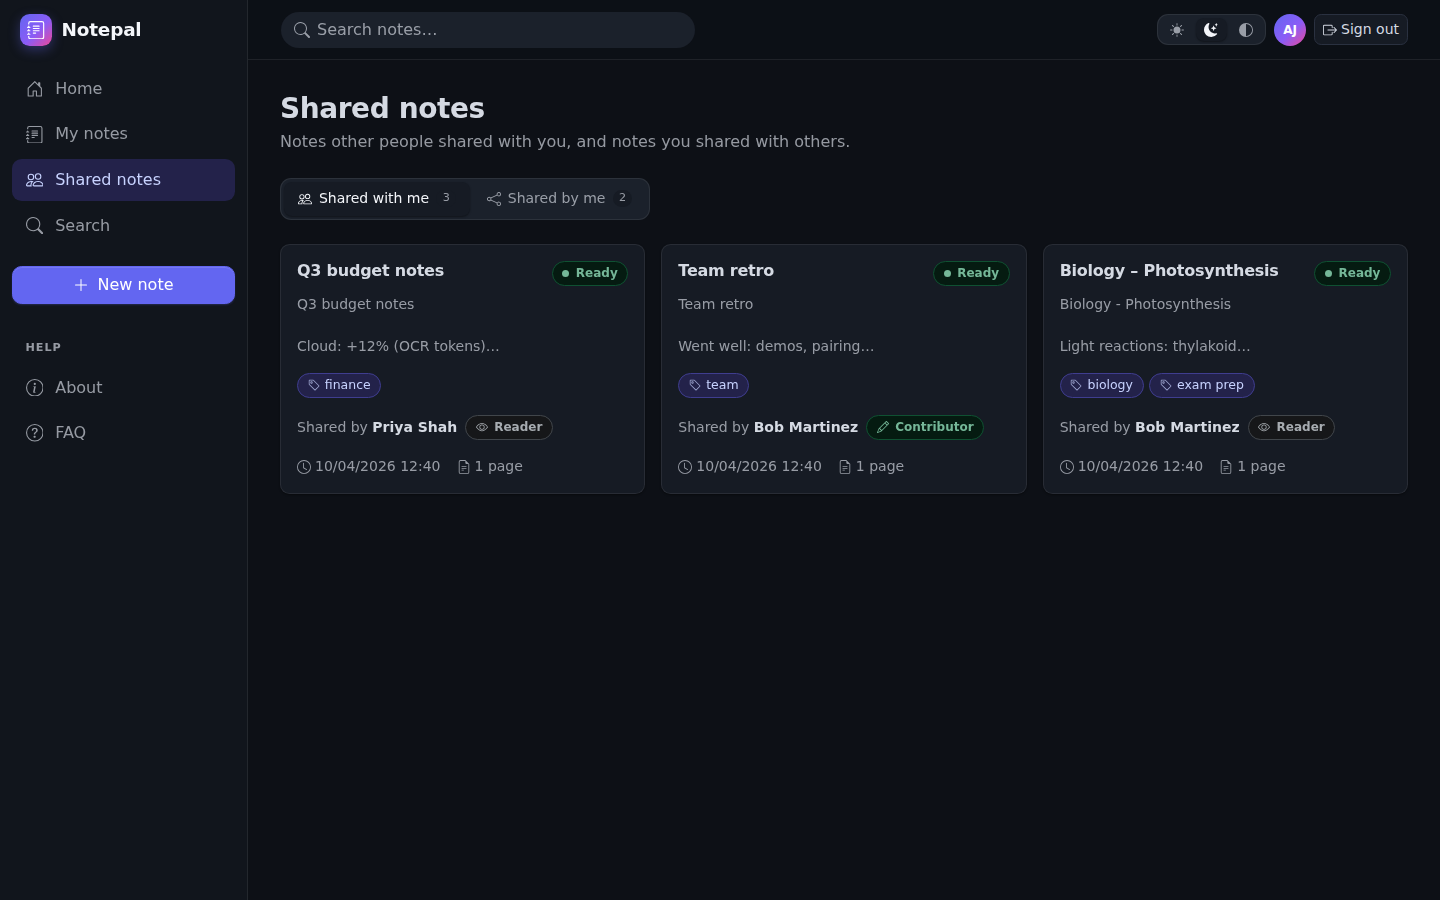
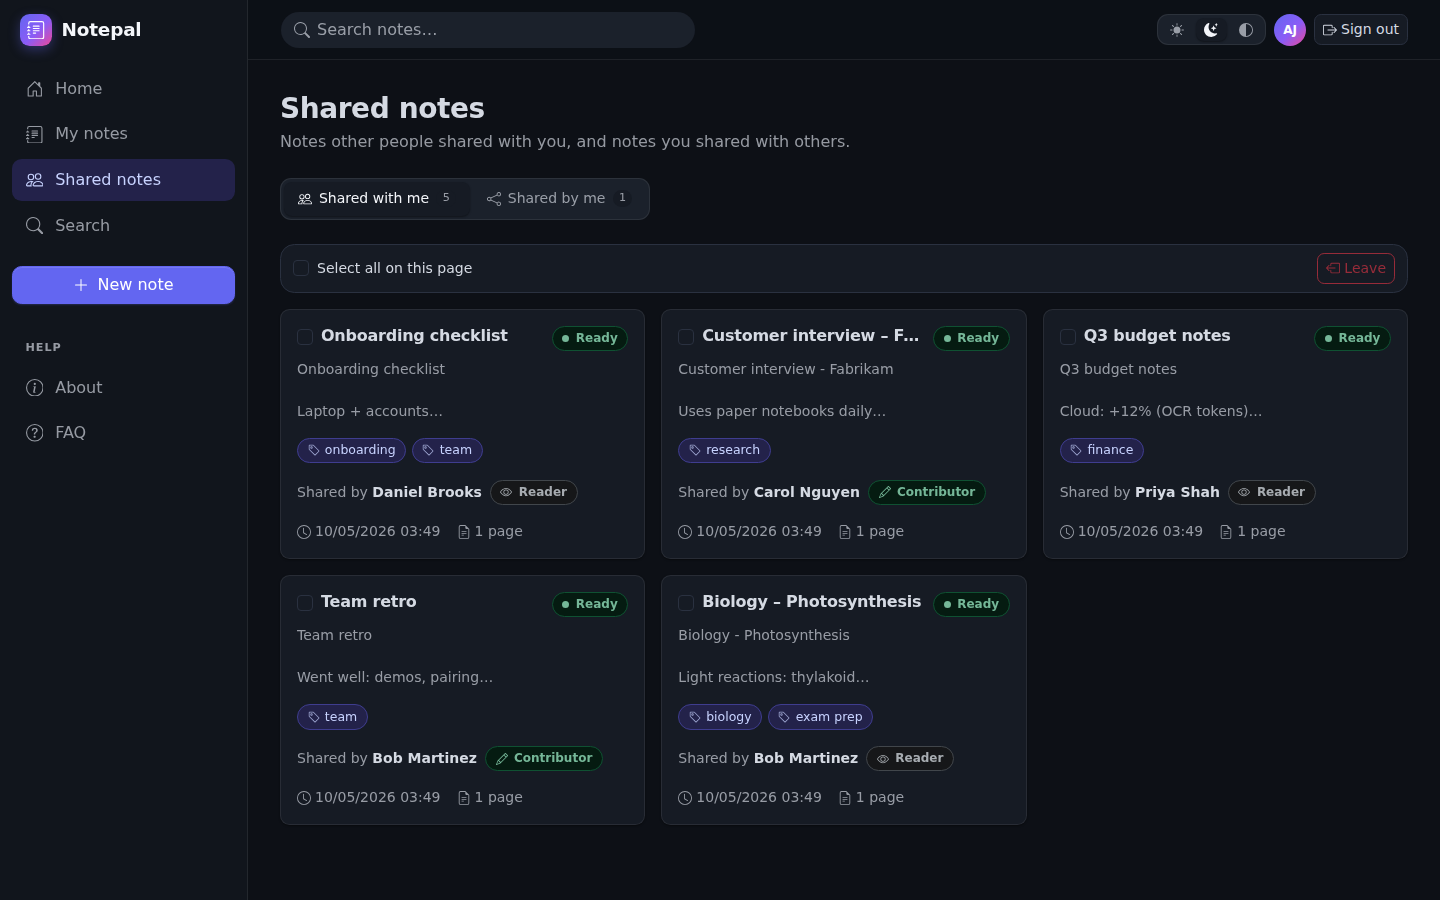
Leave selected notes from Shared with me (bulk leave API, multi-select UI, docs)

diff --git a/src/Notepal.Web/wwwroot/app.css b/src/Notepal.Web/wwwroot/app.css
@@ -1077,3 +1077,37 @@ button.tag-chip {
     .avatar-stack .avatar + .avatar {
         margin-left: -.45rem;
     }
+
+.shared-select-bar {
+    display: flex;
+    flex-wrap: wrap;
+    align-items: center;
+    gap: .5rem .75rem;
+    padding: .5rem .75rem;
+    margin-bottom: 1rem;
+    border: 1px solid var(--bs-border-color);
+    border-radius: var(--bs-border-radius-lg);
+    background: var(--np-surface);
+    min-height: 3rem;
+}
+
+    .shared-select-bar.has-selection {
+        border-color: var(--bs-primary-border-subtle);
+        background: var(--bs-primary-bg-subtle);
+    }
+
+.note-select {
+    position: relative;
+    z-index: 2;
+    margin-top: .2rem;
+    cursor: pointer;
+}
+
+.note-card-selected {
+    border-color: var(--bs-primary);
+    box-shadow: 0 0 0 1px var(--bs-primary);
+}
+
+    .note-card-selected:hover {
+        border-color: var(--bs-primary);
+    }

diff --git a/tests/Notepal.Api.Tests/SharingApiTests.cs b/tests/Notepal.Api.Tests/SharingApiTests.cs
@@ -160,6 +160,50 @@ public sealed class SharingApiTests(NotepalApiFactory factory) : IClassFixture<N
     }
 
     [Fact]
+    public async Task Recipient_can_leave_several_shared_notes_at_once()
+    {
+        var alice = NewPerson();
+        var bob = NewPerson();
+        var carol = NewPerson();
+        var first = await UploadAsync(alice.Client, "Leave one", ("a.png", TestFiles.Png));
+        var second = await UploadAsync(alice.Client, "Leave two", ("a.png", TestFiles.Png));
+        var kept = await UploadAsync(alice.Client, "Keep", ("a.png", TestFiles.Png));
+        var bobsOwn = await UploadAsync(bob.Client, "Bob's own", ("a.png", TestFiles.Png));
+        await ShareAsync(alice, first.Id, new AddNoteShareRequest(bob.Email, UserId: bob.Id));
+        await ShareAsync(alice, second.Id, new AddNoteShareRequest(bob.Email, Permission: SharePermission.Contributor));
+        await ShareAsync(alice, kept.Id, new AddNoteShareRequest(bob.Email));
+        await ShareAsync(alice, first.Id, new AddNoteShareRequest(carol.Email));
+        await ShareAsync(bob, bobsOwn.Id, new AddNoteShareRequest(carol.Email));
+
+        // Bob's own note and a note he has no share for are ignored.
+        var response = await bob.Client.PostAsJsonAsync("/api/shared/with-me/leave",
+            new LeaveSharedNotesRequest([first.Id, second.Id, bobsOwn.Id, Guid.NewGuid()]));
+        response.EnsureSuccessStatusCode();
+        Assert.Equal(2, (await response.Content.ReadFromJsonAsync<LeaveSharedNotesResult>())!.Left);
+
+        var withMe = (await bob.Client.GetFromJsonAsync<PagedResult<SharedNoteDto>>("/api/shared/with-me"))!;
+        Assert.Equal([kept.Id], withMe.Items.Select(i => i.Note.Id));
+        Assert.Equal(HttpStatusCode.NotFound, (await bob.Client.GetAsync($"/api/notes/{first.Id}")).StatusCode);
+        Assert.Equal(HttpStatusCode.NotFound, (await bob.Client.GetAsync($"/api/notes/{second.Id}")).StatusCode);
+
+        // Other people's shares and the notes themselves are untouched.
+        Assert.Equal(HttpStatusCode.OK, (await carol.Client.GetAsync($"/api/notes/{first.Id}")).StatusCode);
+        Assert.Equal(HttpStatusCode.OK, (await carol.Client.GetAsync($"/api/notes/{bobsOwn.Id}")).StatusCode);
+        Assert.Equal(HttpStatusCode.OK, (await alice.Client.GetAsync($"/api/notes/{second.Id}")).StatusCode);
+        var aliceShares = (await alice.Client.GetFromJsonAsync<List<NoteShareDto>>($"/api/notes/{first.Id}/shares"))!;
+        Assert.Equal([carol.Email], aliceShares.Select(s => s.Email));
+    }
+
+    [Fact]
+    public async Task Leaving_requires_note_ids_within_the_limit()
+    {
+        var bob = NewPerson();
+        Assert.Equal(HttpStatusCode.BadRequest, (await bob.Client.PostAsJsonAsync("/api/shared/with-me/leave", new LeaveSharedNotesRequest([]))).StatusCode);
+        var tooMany = Enumerable.Range(0, ShareLimits.MaxNotesPerLeave + 1).Select(_ => Guid.NewGuid()).ToList();
+        Assert.Equal(HttpStatusCode.BadRequest, (await bob.Client.PostAsJsonAsync("/api/shared/with-me/leave", new LeaveSharedNotesRequest(tooMany))).StatusCode);
+    }
+
+    [Fact]
     public async Task Invalid_shares_are_rejected()
     {
         var alice = NewPerson();

diff --git a/src/Notepal.Api/Endpoints/SharingEndpoints.cs b/src/Notepal.Api/Endpoints/SharingEndpoints.cs
@@ -22,6 +22,7 @@ public static class SharingEndpoints
         var shared = api.MapGroup("/shared").WithTags("Sharing");
         shared.MapGet("/by-me", SharedByMe);
         shared.MapGet("/with-me", SharedWithMe);
+        shared.MapPost("/with-me/leave", LeaveSharedNotes);
 
         return api;
     }
@@ -234,6 +235,34 @@ public static class SharingEndpoints
             .ToList();
 
         return Results.Ok(new PagedResult<SharedNoteDto>(items, total, page, pageSize));
+    }
+
+    /// <summary>
+    /// The caller leaves one or more notes shared with them by removing their own shares. Shares of other people and
+    /// the caller's own notes are never touched; ids the caller has no share for are ignored.
+    /// </summary>
+    private static async Task<IResult> LeaveSharedNotes(LeaveSharedNotesRequest body, NotepalDbContext db, ICurrentUser user, CancellationToken ct)
+    {
+        var noteIds = (body.NoteIds ?? []).Where(id => id != Guid.Empty).Distinct().ToList();
+        if (noteIds.Count == 0)
+        {
+            return Invalid(nameof(body.NoteIds), "Choose at least one note to leave.");
+        }
+
+        if (noteIds.Count > ShareLimits.MaxNotesPerLeave)
+        {
+            return Invalid(nameof(body.NoteIds), $"You can leave up to {ShareLimits.MaxNotesPerLeave} notes at a time.");
+        }
+
+        var userId = user.UserId!;
+        var mine = db.NoteShares
+            .Where(NoteAccessQueries.IsFor(userId, user.Email))
+            .Where(s => noteIds.Contains(s.NoteId) && s.OwnerId != userId);
+
+        var left = await mine.Select(s => s.NoteId).Distinct().CountAsync(ct);
+        await mine.ExecuteDeleteAsync(ct);
+
+        return Results.Ok(new LeaveSharedNotesResult(left));
     }
 
     private static async Task<IResult?> RequireOwnerAsync(NotepalDbContext db, Guid noteId, ICurrentUser user, CancellationToken ct)

diff --git a/src/Notepal.Web/Services/NotepalApiClient.cs b/src/Notepal.Web/Services/NotepalApiClient.cs
@@ -99,6 +99,10 @@ public sealed class NotepalApiClient(IDownstreamApi api, AuthenticationStateProv
     public Task<PagedResult<SharedNoteDto>> ListSharedWithMeAsync(int page, int pageSize, CancellationToken ct = default) =>
         SendAsync<PagedResult<SharedNoteDto>>(HttpMethod.Get, $"api/shared/with-me?page={page}&pageSize={pageSize}", null, ct);
 
+    /// <summary>Removes the user's access to notes other people shared with them.</summary>
+    public Task<LeaveSharedNotesResult> LeaveSharedNotesAsync(IReadOnlyList<Guid> noteIds, CancellationToken ct = default) =>
+        SendAsync<LeaveSharedNotesResult>(HttpMethod.Post, "api/shared/with-me/leave", JsonContent.Create(new LeaveSharedNotesRequest(noteIds)), ct);
+
     /// <summary>Full-text search; when tags are given, only notes that carry every one of them are searched.</summary>
     public Task<PagedResult<SearchResultDto>> SearchAsync(string query, int page, int pageSize, IReadOnlyList<string>? tags = null, CancellationToken ct = default) =>
         SendAsync<PagedResult<SearchResultDto>>(HttpMethod.Get, $"api/search?q={Uri.EscapeDataString(query)}&page={page}&pageSize={pageSize}{TagQuery(tags ?? [])}", null, ct);

diff --git a/src/Notepal.Shared/Contracts.cs b/src/Notepal.Shared/Contracts.cs
@@ -108,6 +108,12 @@ public sealed record SharedNoteDto(
     DateTimeOffset SharedAt,
     IReadOnlyList<NoteShareDto> SharedWith);
 
+/// <summary>Removes the caller's access to notes other people shared with them (the notes themselves are not changed).</summary>
+public sealed record LeaveSharedNotesRequest(IReadOnlyList<Guid> NoteIds);
+
+/// <summary>How many of the requested notes the caller no longer has access to.</summary>
+public sealed record LeaveSharedNotesResult(int Left);
+
 /// <summary>A person found in the organisation's directory.</summary>
 public sealed record DirectoryUserDto(string Id, string DisplayName, string Email);
 
@@ -116,6 +122,7 @@ public static class ShareLimits
     public const int MaxSharesPerNote = 50;
     public const int MaxEmailLength = 254;
     public const int MaxDisplayNameLength = 200;
+    public const int MaxNotesPerLeave = 100;
 
     /// <summary>Trims and lower-cases an e-mail address; returns <c>null</c> unless it looks like <c>name@domain.tld</c>.</summary>
     public static string? NormalizeEmail(string? email)

diff --git a/README.md b/README.md
@@ -26,7 +26,8 @@ side by side, and search everything you have captured. Every user only ever sees
   (Microsoft Graph, delegated `User.ReadBasic.All`) or types any email address, then gives each person **Reader**
   (view and download originals) or **Contributor** (also rename, tag, add pages, correct text, re-run extraction) access.
   Only the owner can change sharing or delete the note. **Shared notes** in the left
-  navigation lists notes *shared with me* and notes *shared by me*.
+  navigation lists notes *shared with me* and notes *shared by me*; on *Shared with me* you can tick one or more notes
+  (or **Select all**) and **Leave** them to remove your access.
 - **Per-user isolation**: Entra ID sign-in. The API only accepts access tokens for its `access_as_user` scope and
   scopes every query to the caller's object id (`oid`) – both explicitly and through EF Core global query filters.
   A note is visible to anyone else only when its owner shares it with them (matched by `oid` or sign-in email).
@@ -76,6 +77,7 @@ All endpoints (except `/healthz`) require a token with the `access_as_user` scop
 | `PUT /api/notes/{id}/shares/{shareId}` | Change a person's permission (owner only) |
 | `DELETE /api/notes/{id}/shares/{shareId}` | Stop sharing (owner), or leave a note shared with you (recipient) |
 | `GET /api/shared/with-me?page=&pageSize=` | Notes other people shared with the caller, with role and sharer |
+| `POST /api/shared/with-me/leave` | Leave notes shared with the caller: `{ "noteIds": ["…"] }` (up to 100); removes only the caller's own shares and returns `{ "left": n }` |
 | `GET /api/shared/by-me?page=&pageSize=` | The caller's notes that are shared, with their recipients |
 | `GET /api/search?q=&tag=&page=&pageSize=` | Full-text search, optionally limited to notes with the given tag(s); matches in `snippet` are wrapped in `⟦ ⟧`. With only `tag`, returns one result per tagged note |
 

diff --git a/docs/screenshots/README.md b/docs/screenshots/README.md
@@ -38,6 +38,14 @@ Captured from the web app at 1440×900 (mobile at 390×844) with sample data.
 | ![Shared with me, light](light-shared-with-me.png) | ![Shared with me, dark](dark-shared-with-me.png) |
 | ![Shared by me, light](light-shared-by-me.png) | ![Shared by me, dark](dark-shared-by-me.png) |
 
+## Shared with me – select notes and leave them (selection, confirmation, result)
+
+| Light | Dark |
+| --- | --- |
+| ![Notes selected, light](light-shared-leave-select.png) | ![Notes selected, dark](dark-shared-leave-select.png) |
+| ![Confirm leave, light](light-shared-leave-confirm.png) | ![Confirm leave, dark](dark-shared-leave-confirm.png) |
+| ![Left notes, light](light-shared-leave-done.png) | ![Left notes, dark](dark-shared-leave-done.png) |
+
 ## A shared note as a Contributor and as a Reader (no Share/Delete; Readers get read-only text)
 
 | Light | Dark |
